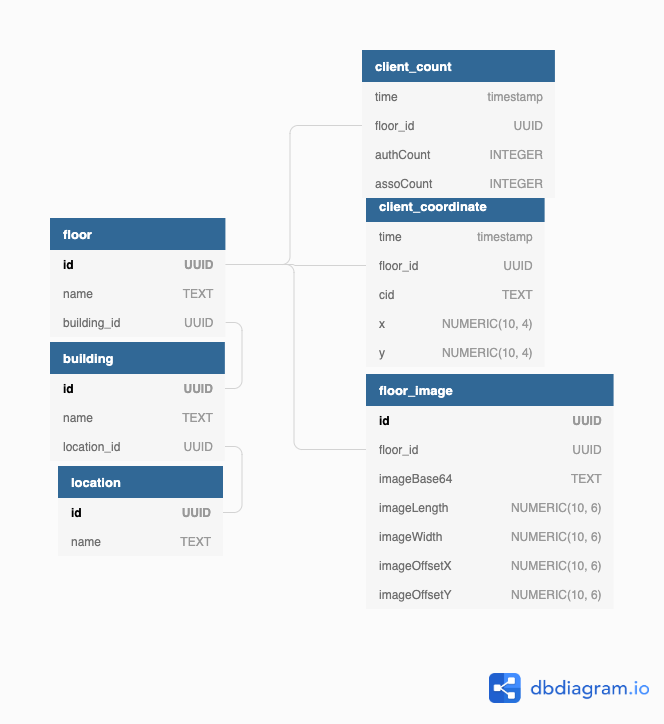
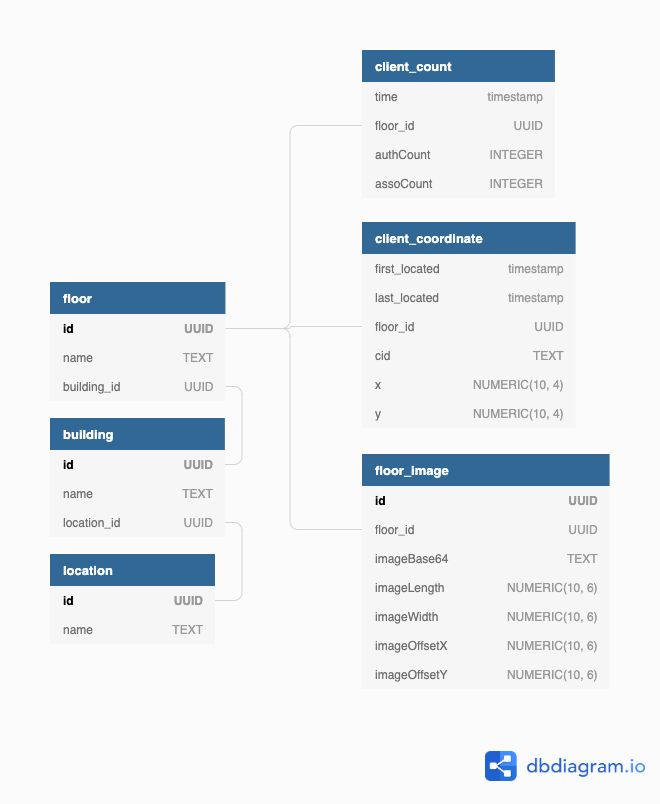
Seperated time col to last_located & first_located

Changed region(s): [[0.5455, 0.0608, 0.9394, 0.8508], [0.0606, 0.3039, 0.3636, 0.7901], [0.7273, 0.9116, 0.9697, 0.9724]]

diff --git a/lib/db/timescaledb-interaction.js b/lib/db/timescaledb-interaction.js
@@ -124,7 +124,7 @@ module.exports.insertFloor = async (data) => {
 
 /**
  * Adds a location node for a specific bulding floor map.
- * @param {{eventTime: String, mac: String, location: String, building: String, floor: String, x: Number, y: Number}[]} data Data to insert
+ * @param {{firstLocatedTime: String, lastLocatedTime: String, mac: String, location: String, building: String, floor: String, x: Number, y: Number}[]} data Data to insert
  */
 module.exports.insertClientCoords = async (data) => {
   createConnection()
@@ -132,7 +132,8 @@ module.exports.insertClientCoords = async (data) => {
   const values = data.map(client => {
     const cid = createHmac('md5', process.env.MSE_MAC_HASH_KEY).update(client.mac).digest('hex')
     return [
-      new Date(client.eventTime),
+      new Date(client.firstLocatedTime),
+      new Date(client.lastLocatedTime),
       cid,
       client.location,
       client.building,
@@ -144,12 +145,13 @@ module.exports.insertClientCoords = async (data) => {
 
   try {
     const query = format(`
-      WITH ins (time, cid, location, building, floor, x, y) AS (
+      WITH ins (first_located, last_located, cid, location, building, floor, x, y) AS (
         VALUES %L
       )
-      INSERT INTO client_coordinate (time, floor_id, cid, x, y)
+      INSERT INTO client_coordinate (first_located, last_located, floor_id, cid, x, y)
         SELECT
-          ins.time::TIMESTAMPTZ,
+          ins.first_located::TIMESTAMPTZ,
+          ins.last_located::TIMESTAMPTZ,
           (get_id_from_names(ins.location, ins.building, ins.floor)).floor_id,
           ins.cid,
           ins.x::NUMERIC(10, 4),

diff --git a/lib/mse/mse-update-client-locations.js b/lib/mse/mse-update-client-locations.js
@@ -73,14 +73,14 @@ module.exports = async (mse) => {
 
 // TODO: Select last time from earliest campus time (yay great explanation..)
 async function getLastStoppingTime () {
-  const data = await db.query('SELECT time FROM client_coordinate ORDER BY time DESC LIMIT 1')
+  const data = await db.query('SELECT last_located FROM client_coordinate ORDER BY last_located DESC LIMIT 1')
   if (
     data &&
     data.rows &&
     data.rows.length > 0 &&
-    data.rows[0].time &&
-    !isNaN(data.rows[0].time)
-  ) return data.rows[0].time
+    data.rows[0].last_located &&
+    !isNaN(data.rows[0].last_located)
+  ) return data.rows[0].last_located
   logger('warn', ['mse-update-client-locations', 'getLastStoppingTime', 'couldn\'t find the last valid stopping time'])
   return null
 }
@@ -88,7 +88,8 @@ async function getLastStoppingTime () {
 function parseMseLocationData (client) {
   const mapInfo = client.MapInfo
   const clientCoord = client.MapCoordinate
-  const timeLocated = client.Statistics.lastLocatedTime
+  const firstLocatedTime = client.Statistics.firstLocatedTime
+  const lastLocatedTime = client.Statistics.lastLocatedTime
 
   if (clientCoord.unit === 'FEET') {
     clientCoord.x = feetToMeters(clientCoord.x)
@@ -99,7 +100,8 @@ function parseMseLocationData (client) {
     throw Error('Unexpected client coordinates unit')
   }
   return {
-    eventTime: new Date(timeLocated),
+    firstLocatedTime: new Date(firstLocatedTime),
+    lastLocatedTime: new Date(lastLocatedTime),
     mac: client.macAddress,
     x: clientCoord.x,
     y: clientCoord.y,
